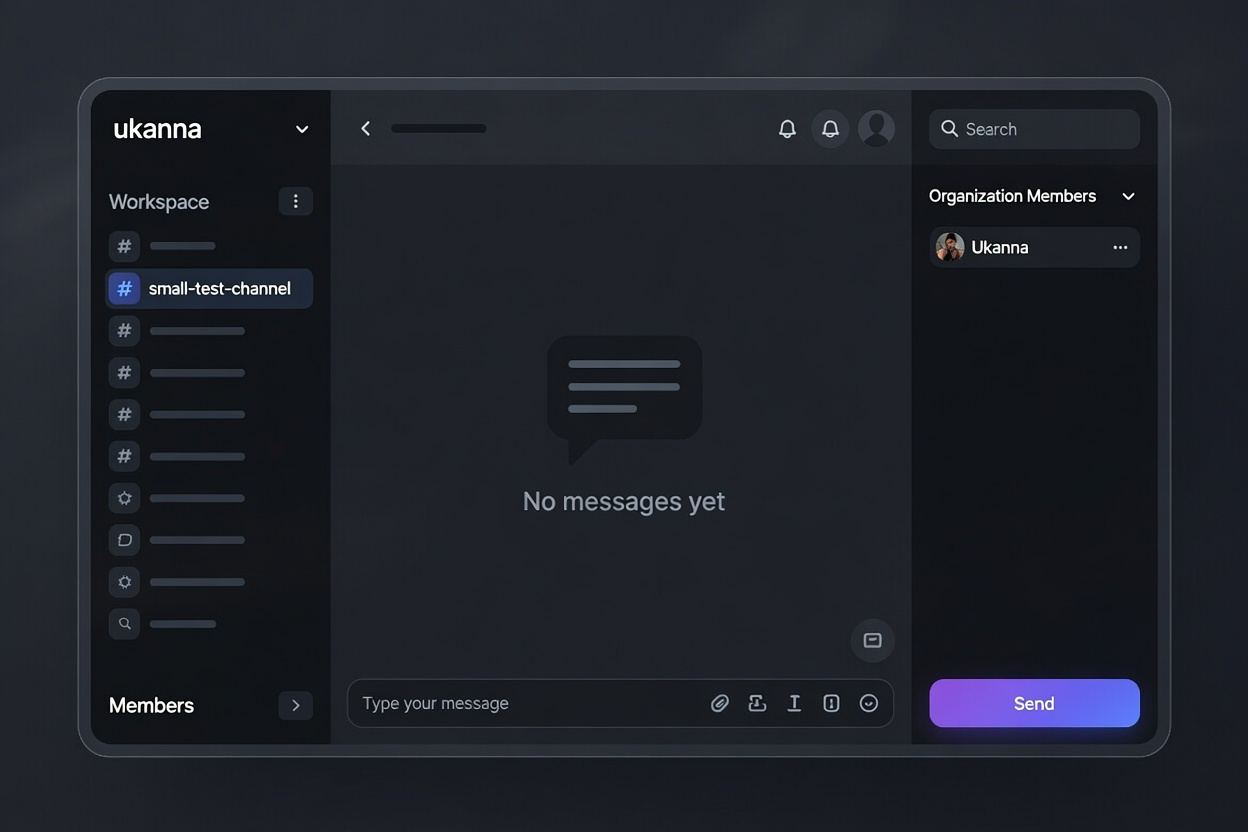
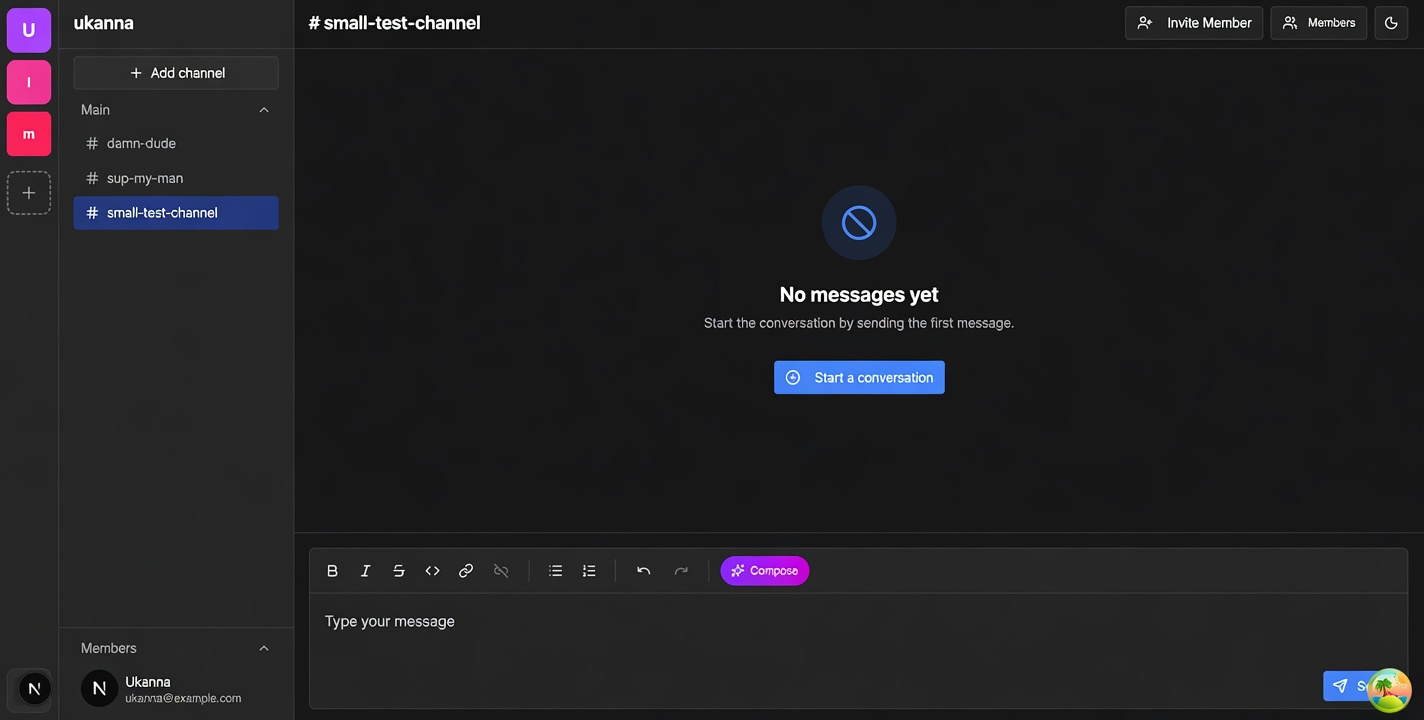
finished kinde auth and billing

diff --git a/app/(marketing)/_components/header.tsx b/app/(marketing)/_components/header.tsx
@@ -1,11 +1,18 @@
 "use client";
 import Image from "next/image";
 import Link from "next/link";
-import { Menu, X } from "lucide-react";
-import { Button } from "@/components/ui/button";
+import { LogIn, Menu, X } from "lucide-react";
+import { Button, buttonVariants } from "@/components/ui/button";
 import React from "react";
 import { cn } from "@/lib/utils";
 import Logo from "@/public/logo.svg";
+import {
+  RegisterLink,
+  LoginLink,
+  LogoutLink,
+} from "@kinde-oss/kinde-auth-nextjs/components";
+import { span } from "motion/react-client";
+import { useKindeBrowserClient } from "@kinde-oss/kinde-auth-nextjs";
 
 const menuItems = [
   { name: "Features", href: "#link" },
@@ -17,6 +24,8 @@ const menuItems = [
 export const HeroHeader = () => {
   const [menuState, setMenuState] = React.useState(false);
   const [isScrolled, setIsScrolled] = React.useState(false);
+  const { getUser, isLoading, isAuthenticated } = useKindeBrowserClient();
+  const user = getUser();
 
   React.useEffect(() => {
     const handleScroll = () => {
@@ -97,36 +106,60 @@ export const HeroHeader = () => {
                   ))}
                 </ul>
               </div>
-              <div className="flex w-full flex-col space-y-3 sm:flex-row sm:gap-3 sm:space-y-0 md:w-fit">
-                <Button
-                  asChild
-                  variant="outline"
-                  size="sm"
-                  className={cn(isScrolled && "lg:hidden")}
-                >
-                  <Link href="#">
-                    <span>Login</span>
-                  </Link>
-                </Button>
-                <Button
-                  asChild
-                  size="sm"
-                  className={cn(isScrolled && "lg:hidden")}
-                >
-                  <Link href="#">
-                    <span>Sign Up</span>
-                  </Link>
-                </Button>
-                <Button
-                  asChild
-                  size="sm"
-                  className={cn(isScrolled ? "lg:inline-flex" : "hidden")}
-                >
-                  <Link href="#">
-                    <span>Get Started</span>
-                  </Link>
-                </Button>
-              </div>
+              {isLoading ? null : (
+                <div className="flex w-full flex-col space-y-3 sm:flex-row sm:gap-3 sm:space-y-0 md:w-fit">
+                  {user ? (
+                    <>
+                      <Link
+                        className={buttonVariants({ size: "sm" })}
+                        href="/workspace"
+                      >
+                        <span>Dashboard</span>
+                      </Link>
+                      <LogoutLink
+                        className={buttonVariants({
+                          variant: "outline",
+                          size: "sm",
+                        })}
+                      >
+                        <span>Logout</span>
+                      </LogoutLink>
+                    </>
+                  ) : (
+                    <>
+                      <LoginLink
+                        className={buttonVariants({
+                          variant: "outline",
+                          size: "sm",
+                          className: cn(isScrolled && "lg:hidden"),
+                        })}
+                      >
+                        Login
+                      </LoginLink>
+                      <RegisterLink
+                        className={buttonVariants({
+                          size: "sm",
+                          className: cn(isScrolled && "lg:hidden"),
+                        })}
+                      >
+                        Sign Up
+                      </RegisterLink>
+
+                      <div
+                        className={cn(isScrolled ? "lg:inline-flex" : "hidden")}
+                      >
+                        <RegisterLink
+                          className={buttonVariants({
+                            size: "sm",
+                          })}
+                        >
+                          Get Started
+                        </RegisterLink>
+                      </div>
+                    </>
+                  )}
+                </div>
+              )}
             </div>
           </div>
         </div>

diff --git a/app/layout.tsx b/app/layout.tsx
@@ -2,6 +2,7 @@ import type { Metadata } from "next";
 import { Geist, Geist_Mono } from "next/font/google";
 import "./globals.css";
 import { ThemeProvider } from "@/lib/theme-provider";
+import { AuthProvider } from "./(marketing)/AuthProvider";
 
 const geistSans = Geist({
   variable: "--font-geist-sans",
@@ -24,22 +25,24 @@ export default function RootLayout({
   children: React.ReactNode;
 }>) {
   return (
-    <html
-      lang="en"
-      suppressHydrationWarning
-      className={`${geistSans.variable} ${geistMono.variable} h-full antialiased`}
-    >
-      <head />
-      <body className="min-h-full flex flex-col">
-        <ThemeProvider
-          attribute="class"
-          defaultTheme="system"
-          enableSystem
-          disableTransitionOnChange
-        >
-          {children}
-        </ThemeProvider>
-      </body>
-    </html>
+    <AuthProvider>
+      <html
+        lang="en"
+        suppressHydrationWarning
+        className={`${geistSans.variable} ${geistMono.variable} h-full antialiased`}
+      >
+        <head />
+        <body className="min-h-full flex flex-col">
+          <ThemeProvider
+            attribute="class"
+            defaultTheme="system"
+            enableSystem
+            disableTransitionOnChange
+          >
+            {children}
+          </ThemeProvider>
+        </body>
+      </html>
+    </AuthProvider>
   );
 }

diff --git a/components/motion-primitives/animated-group.tsx b/components/motion-primitives/animated-group.tsx
@@ -110,7 +110,7 @@ function AnimatedGroup({
 }: AnimatedGroupProps) {
   const selectedVariants = {
     item: addDefaultVariants(preset ? presetVariants[preset] : {}),
-    container: addDefaultVariants(defaultContainerVariants),
+    container: defaultContainerVariants,
   };
   const containerVariants = variants?.container || selectedVariants.container;
   const itemVariants = variants?.item || selectedVariants.item;

diff --git a/app/(marketing)/AuthProvider.tsx b/app/(marketing)/AuthProvider.tsx
@@ -1,0 +1,6 @@
+"use client";
+import { KindeProvider } from "@kinde-oss/kinde-auth-nextjs";
+
+export const AuthProvider = ({ children }: { children: React.ReactNode }) => {
+  return <KindeProvider>{children}</KindeProvider>;
+};

diff --git a/app/api/auth/[kindeAuth]/route.ts b/app/api/auth/[kindeAuth]/route.ts
@@ -1,0 +1,3 @@
+import { handleAuth } from "@kinde-oss/kinde-auth-nextjs/server";
+
+export const GET = handleAuth();
